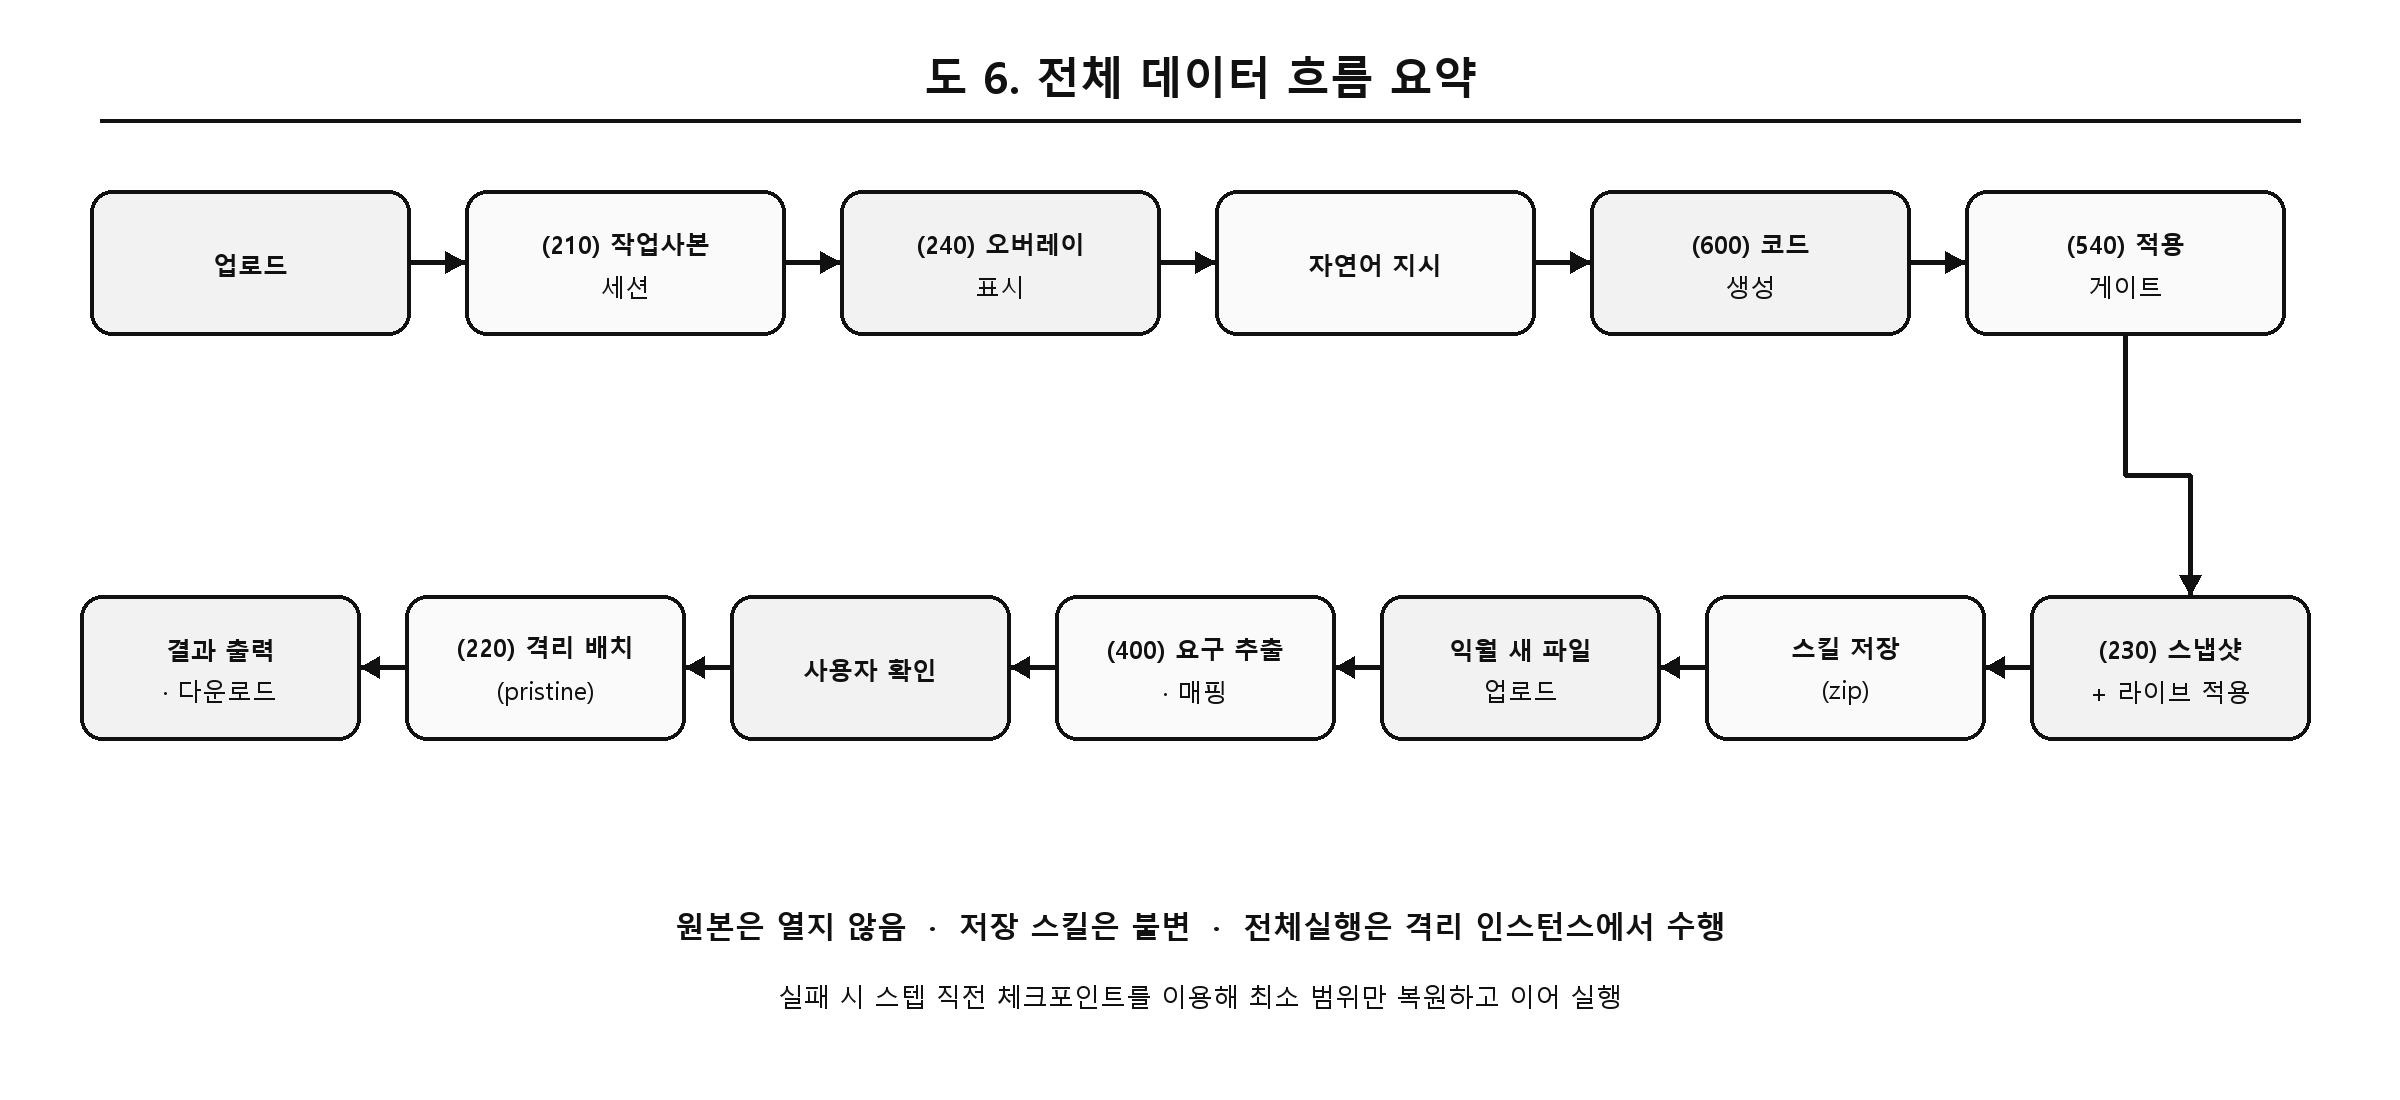
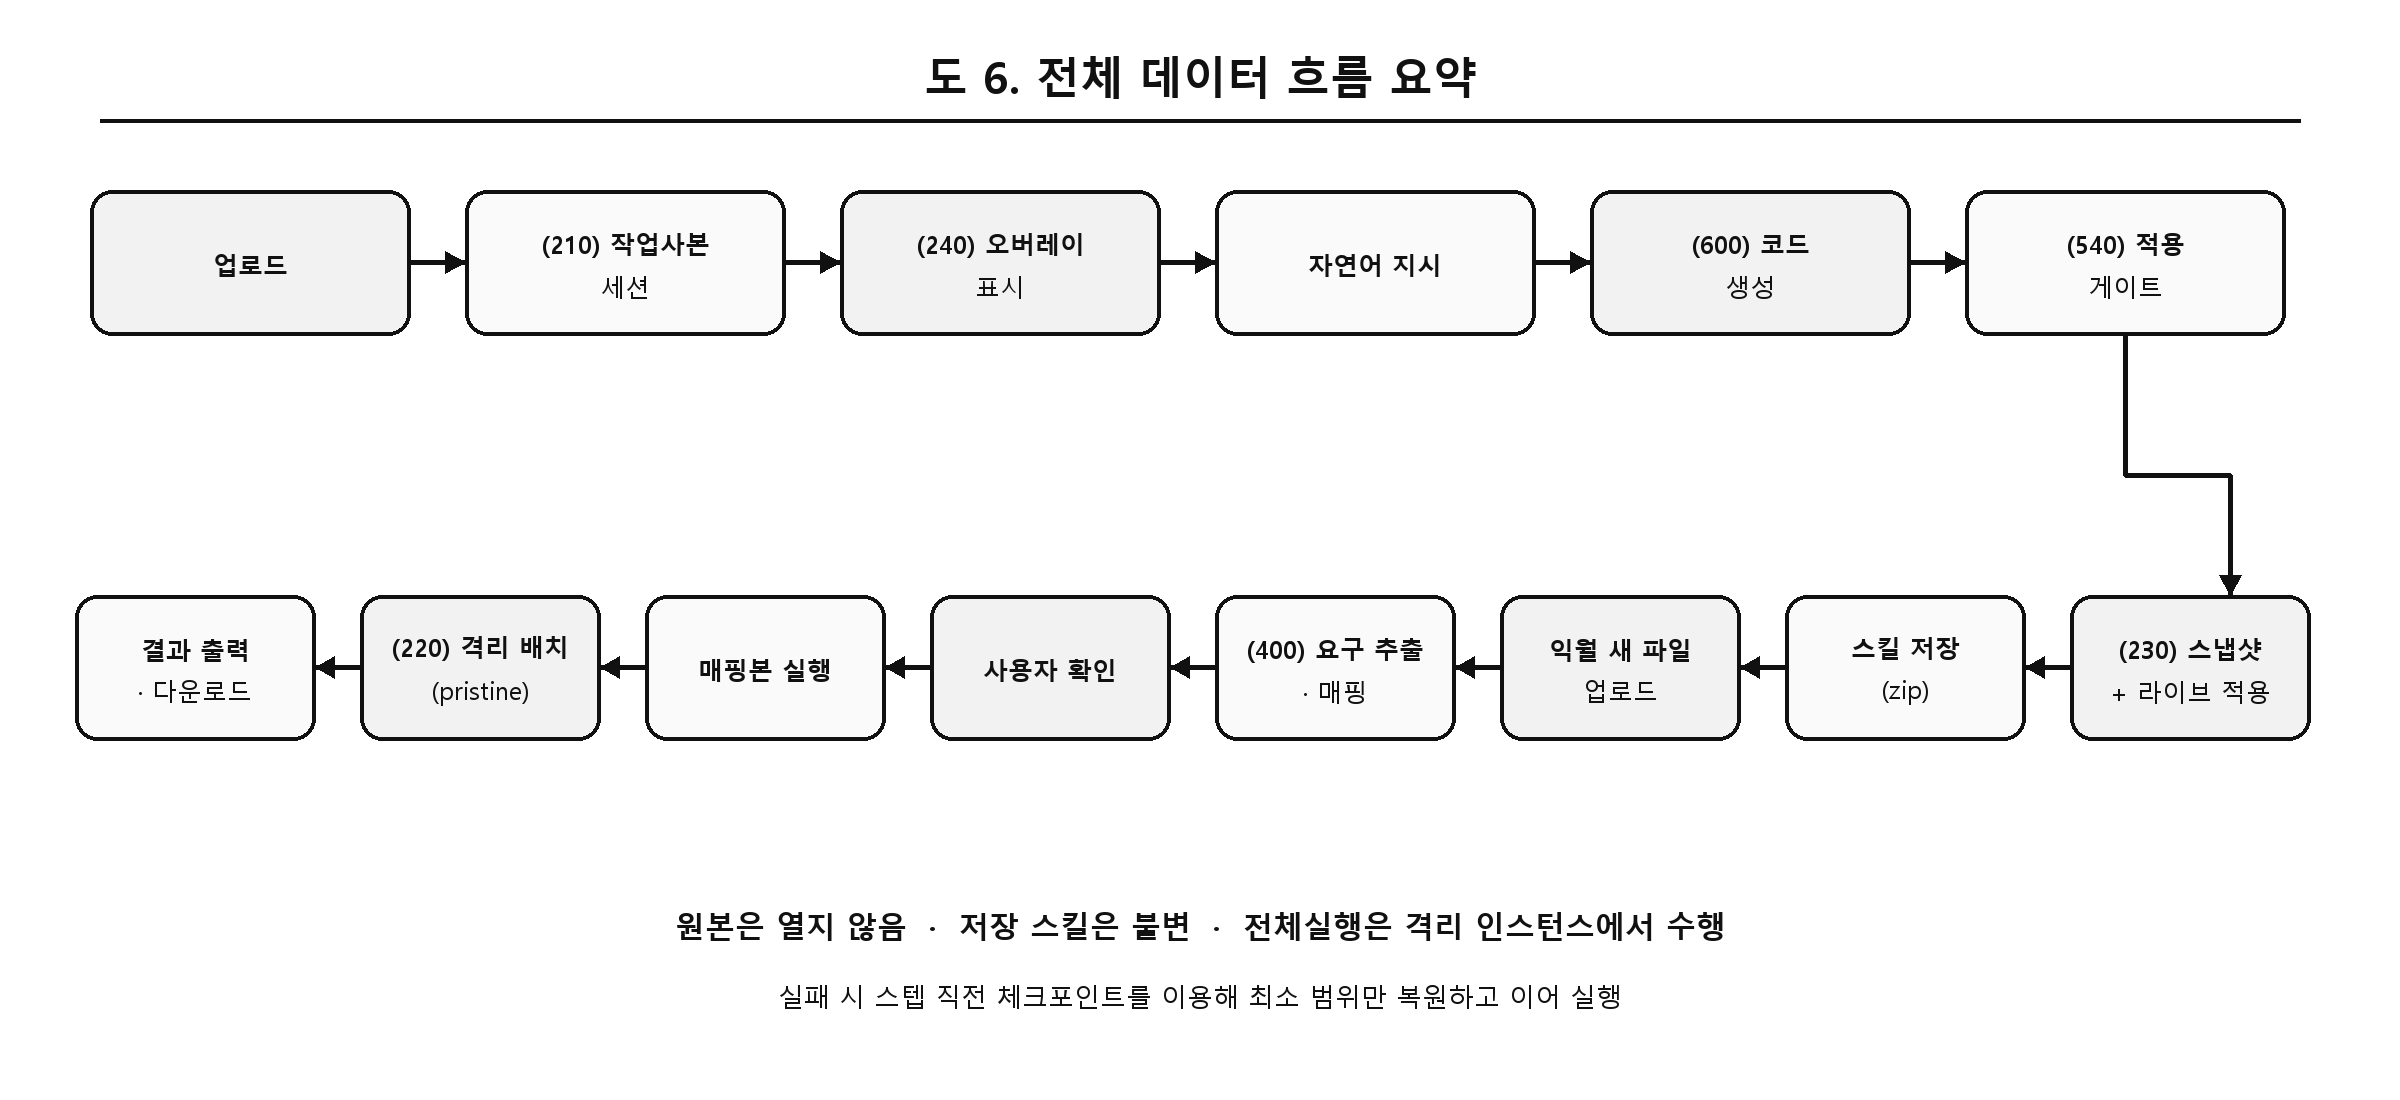
docs(patent): 도면 갱신(도1~6) + 실물 화면 실시예 도면 추가(도7 오버레이 합성, 도8~9 재바인딩 매핑)

Changed region(s): [[0.0312, 0.4327, 0.9375, 0.68], [0.375, 0.6491, 0.4375, 0.68], [0.4062, 0.5255, 0.4375, 0.5564]]

diff --git a/docs/patent/도면_생성.py b/docs/patent/도면_생성.py
@@ -99,13 +99,16 @@ def figure1():
     box(d, (875, 1090, 650, 220), ["저장 스킬 저장소", "스텝 코드 + 대상 메타 + 이름"], fill=WHITE, size=29)
     box(d, (1600, 1060, 650, 280), ["(300) 라이브 Excel", "실제 EXCEL.EXE top-level 유지", "스타일 변형 + 무활성 배치", "네이티브 기능과 입력 보존"], fill=LIGHT, size=28)
 
-    arrow(d, [(475, 415), (475, 530)], label="WebView2")
-    arrow(d, [(1200, 415), (1200, 530)], label="좌표·상태")
+    arrow(d, [(475, 415), (475, 530)], label="WebView2·좌표/상태")
     arrow(d, [(1925, 415), (1925, 530)], label="자식 프로세스")
     arrow(d, [(800, 720), (875, 720)], label="요구/매핑")
     arrow(d, [(1525, 720), (1600, 720)], label="HTTP")
-    arrow(d, [(475, 950), (475, 1090)], label="생성/복구")
-    arrow(d, [(1200, 950), (1200, 1090)], label="저장/호출")
+    arrow(d, [(450, 950), (450, 1090)])
+    arrow(d, [(500, 1090), (500, 950)])
+    text_center(d, (475, 1020), "요청 / 코드", size=22, bold=True)
+    arrow(d, [(1175, 950), (1175, 1090)])
+    arrow(d, [(1225, 1090), (1225, 950)])
+    text_center(d, (1200, 1020), "저장 / 호출", size=22, bold=True)
     arrow(d, [(1925, 950), (1925, 1060)], label="COM")
     footer(d, w)
     im.save(OUT / "도1_시스템_구성도.png", dpi=(300, 300))
@@ -130,12 +133,12 @@ def figure2():
     arrow(d, [(1650, 465), (1650, 595), (1040, 595)], label="재시도", dashed=True)
 
     box(d, (1300, 760, 700, 155), ["S204  성공", "파이프라인에 스텝 축적"], fill=LIGHT, size=29)
-    box(d, (1300, 1030, 700, 220), ["S205  실패 → 자동복구 (550)", "환경·캡처·기검증: 재생성 금지", "복구 가능: 체크포인트 복원 후 재생성·재적용"], fill=LIGHT2, size=26)
+    box(d, (1300, 955, 700, 220), ["S205  실패 → 자동복구 (550)", "환경·캡처·기검증: 재생성 금지", "복구 가능: 체크포인트 복원 후 재생성·재적용"], fill=LIGHT2, size=26)
     arrow(d, [(1040, 1000), (1170, 1000), (1170, 837), (1300, 837)], label="성공")
-    arrow(d, [(1040, 1065), (1300, 1065)], label="실패")
+    arrow(d, [(1040, 1015), (1300, 1015)], label="실패")
     arrow(d, [(1650, 915), (2070, 915), (2070, 1307), (1040, 1307)])
-    arrow(d, [(1650, 1250), (1650, 1395), (1100, 1395), (1100, 1032), (1040, 1032)], dashed=True)
-    text_center(d, (1240, 1375), "복원 후 재적용", size=22, bold=True)
+    arrow(d, [(1300, 1100), (1040, 1100)], dashed=True)
+    text_center(d, (1170, 1132), "복원 후 재적용", size=20, bold=True)
     text_center(d, (1100, 1450), "실패 분류 게이트는 재생성으로 고칠 수 없는 오류를 복구 루프 앞에서 차단함", size=24, fill=MID)
     im.save(OUT / "도2_스킬_생성_적용_흐름도.png", dpi=(300, 300))
 
@@ -171,19 +174,22 @@ def figure4():
     w, h = 2200, 1500
     im, d = canvas(w, h)
     title(d, w, 4, "무손실 격리 전체실행 및 체크포인트 복구")
-    box(d, (260, 160, 1680, 145), ["S301  실행 집합 계산 및 1회 요청", "같은 파일의 연속 스텝 그룹화 · 실행 대상 ∪ 교차참조 파일"], fill=LIGHT, size=27)
-    box(d, (260, 370, 1680, 185), ["S302  숨김 격리 Excel 인스턴스 1개 기동", "리셋 대상: 업로드 원본의 임시 사본(pristine)", "교차참조: 라이브 현재 상태의 SaveCopyAs 동반본"], fill=LIGHT2, size=27)
-    box(d, (260, 620, 1680, 180), ["S303  스텝 루프", "[직전 SaveCopyAs 스냅샷] → [Python COM 또는 VBA 실행]", "진행률은 잠금 밖 공유 상태에 기록"], fill=LIGHT, size=27)
-    for y1, y2 in [(305, 370), (555, 620)]:
+    box(d, (260, 150, 1680, 125), ["S301  실행 집합 계산 및 1회 요청", "같은 파일의 연속 스텝 그룹화 · 실행 대상 ∪ 교차참조 파일"], fill=LIGHT, size=27)
+    box(d, (260, 330, 1680, 165), ["S302  숨김 격리 Excel 인스턴스 1개 기동", "리셋 대상: 업로드 원본의 임시 사본(pristine)", "교차참조: 라이브 현재 상태의 SaveCopyAs 동반본"], fill=LIGHT2, size=26)
+    box(d, (260, 550, 1680, 155), ["S303  스텝 루프", "[직전 SaveCopyAs 스냅샷] → [Python COM 또는 VBA 실행]", "진행률은 잠금 밖 공유 상태에 기록"], fill=LIGHT, size=26)
+    for y1, y2 in [(275, 330), (495, 550)]:
         arrow(d, [(1100, y1), (1100, y2)])
 
-    box(d, (150, 930, 850, 205), ["S304  성공", "변경 파일만 결과 반영", "라이브 또는 출력 파일로 전달"], fill=LIGHT2, size=28)
-    box(d, (1200, 900, 850, 265), ["S305~S306  실패 및 최소 복구", "라이브 반영 전 예외 + 스냅샷 목록 동봉", "최초 스냅샷 복원 → 실패 스텝 재생성", "→ 실패 지점부터 이어 실행"], fill=LIGHT2, size=26)
-    arrow(d, [(850, 800), (850, 865), (575, 865), (575, 930)], label="성공")
-    arrow(d, [(1350, 800), (1350, 860), (1625, 860), (1625, 900)], label="실패")
-    arrow(d, [(1625, 1165), (1625, 1260), (1100, 1260), (1100, 800)], label="복원 후 이어 실행", dashed=True)
-    text_center(d, (1100, 1365), "복구 상한: 전체 3회 · 스텝당 2회 / 스냅샷이 없으면 pristine 전체 재실행", size=24, fill=MID)
-    text_center(d, (1100, 1420), "성공 전까지 라이브 세션은 변경하지 않으므로 원본과 라이브 상태를 무손실로 보존", size=25, bold=True)
+    box(d, (150, 810, 850, 170), ["S304  성공", "변경 파일만 결과 반영", "라이브 또는 출력 파일로 전달"], fill=LIGHT2, size=27)
+    box(d, (1200, 785, 850, 220), ["S305~S306  실패 및 최소 복구", "라이브 반영 전 예외 + 스냅샷 목록 동봉", "최초 스냅샷 복원 → 실패 스텝 재생성", "→ 실패 지점부터 이어 실행"], fill=LIGHT2, size=25)
+    arrow(d, [(850, 705), (850, 755), (575, 755), (575, 810)], label="성공")
+    arrow(d, [(1350, 705), (1350, 750), (1625, 750), (1625, 785)], label="실패")
+    arrow(d, [(1625, 1005), (1625, 1080), (1100, 1080), (1100, 705)], label="복원 후 이어 실행", dashed=True)
+
+    box(d, (150, 1100, 850, 185), ["S307  상태 표시 정합", "복원 세션 집합이 선행 스텝의 변형 문서 집합을", "모두 포함할 때만 선행 스텝을 ‘적용됨’으로 표시"], fill=LIGHT, size=25)
+    arrow(d, [(575, 980), (575, 1100)], label="복구 후 커버리지 검증", dashed=True)
+    text_center(d, (1100, 1370), "복구 상한: 전체 3회 · 스텝당 2회 / 스냅샷이 없으면 pristine 전체 재실행", size=23, fill=MID)
+    text_center(d, (1100, 1430), "성공 전까지 라이브 세션은 변경하지 않으므로 원본과 라이브 상태를 무손실로 보존", size=24, bold=True)
     im.save(OUT / "도4_무손실_격리실행_복구_흐름도.png", dpi=(300, 300))
 
 
@@ -192,8 +198,8 @@ def figure5():
         ("사용자 행위", ["라이브 Excel에서 Ctrl+C(소스) → Ctrl+V(대상)"], 150, LIGHT),
         ("S501  소스 역추적", ["클립보드 Link 포맷에서 북·시트·범위 파싱", "Link 소실 시 CutCopyMode 중 저장한 최근 소스 스냅샷 사용"], 205, LIGHT2),
         ("S502  대상 판정", ["전역 Selection 대신 세션 워크북 창의 RangeSelection 우선"], 170, LIGHT),
-        ("S503~S504  검증 및 결정적 스텝 생성", ["다중영역·크기·교차파일 검증", "paste_copied(src/dst book·sheet·range, values_only)"], 205, LIGHT2),
-        ("S505  결정적 재생", ["소스 파일 자동 오픈 → Range.Copy 또는 값만 붙여넣기", "값·수식·서식·병합 보존 / 롤백 범위 비용 한정"], 205, LIGHT),
+        ("S503~S504  검증 및 결정적 스텝 생성", ["다중영역·크기·교차파일 검증", "paste_copied(src/dst book·sheet·range, values_only)", "역별칭으로 캡처 시점의 사용자 원본 문서명을 기록"], 205, LIGHT2),
+        ("S505  결정적 재생", ["정방향 별칭으로 당시의 실제 문서를 해석·자동 오픈", "Range.Copy 또는 값만 붙여넣기", "값·수식·서식·병합 보존 / 롤백 범위 비용 한정"], 205, LIGHT),
     ]
     vertical_flow(5, "무후킹 복사·붙여넣기 캡처와 결정적 재생", stages, "도5_복사붙여넣기_캡처_흐름도.png", "키보드 후킹이나 LLM 추측 없이 애플리케이션이 보유한 상태로 좌표를 복원함")
 
@@ -204,14 +210,14 @@ def figure6():
     title(d, w, 6, "전체 데이터 흐름 요약")
     labels = [
         "업로드", "(210) 작업사본\n세션", "(240) 오버레이\n표시", "자연어 지시", "(600) 코드\n생성", "(540) 적용\n게이트",
-        "(230) 스냅샷\n+ 라이브 적용", "스킬 저장\n(zip)", "익월 새 파일\n업로드", "(400) 요구 추출\n· 매핑", "사용자 확인", "(220) 격리 배치\n(pristine)", "결과 출력\n· 다운로드"
+        "(230) 스냅샷\n+ 라이브 적용", "스킬 저장\n(zip)", "익월 새 파일\n업로드", "(400) 요구 추출\n· 매핑", "사용자 확인", "매핑본 실행", "(220) 격리 배치\n(pristine)", "결과 출력\n· 다운로드"
     ]
     coords = []
     x0, y0, bw, bh, gap = 90, 190, 320, 145, 55
     for i in range(6):
         coords.append((x0 + i * (bw + gap), y0))
-    x1, y1, bw2, gap2 = 2030, 595, 280, 45
-    for i in range(7):
+    x1, y1, bw2, gap2 = 2070, 595, 240, 45
+    for i in range(8):
         coords.append((x1 - i * (bw2 + gap2), y1))
     for i, (label, (x, y)) in enumerate(zip(labels, coords)):
         current_bw = bw if i < 6 else bw2
